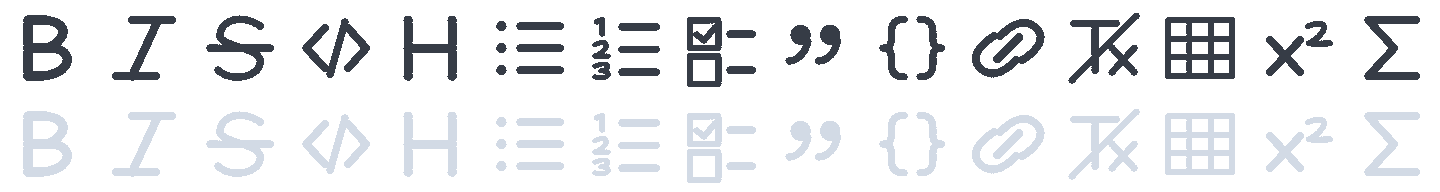
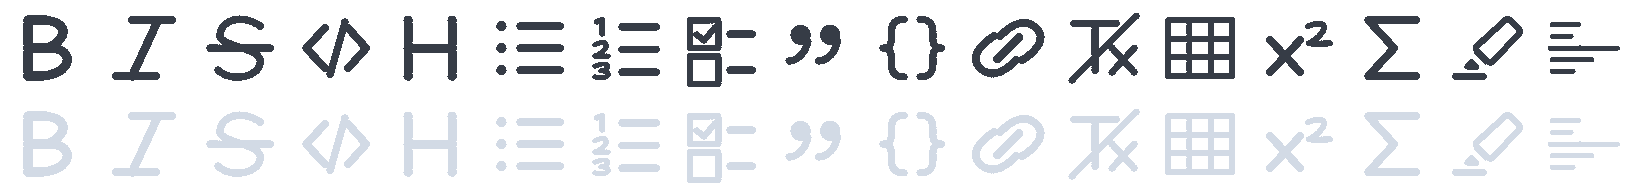
feat: 补齐高亮与分割线快速操作图标
- 图标资产：保存 AI 单图原件和裁切源图，生成高亮、分割线的明暗 PNG/SVG，并更新总览和说明。
- 生成流程：从同一源图按格取 alpha，再着主题色和交由 VTracer 描摹，延续现有校验规则。
- 项目技能：新增 ai-icon-sheet-to-svg，要求非 Codex 会话通过 handoff 移交，并同步项目文件树。

为后续高亮与分割线功能提供同风格、可追溯且可重建的快速操作图标。

Changed region(s): [[0.0, 0.0625, 1.0, 0.4688], [0.0, 0.5625, 1.0, 0.9688]]

diff --git a/scripts/quick-action-icons.py b/scripts/quick-action-icons.py
@@ -1,4 +1,4 @@
-"""Build the 15 light/dark quick-action icons from one raster contact sheet.
+"""Build the 17 light/dark quick-action icons from one raster contact sheet.
 
 Run: python scripts/quick-action-icons.py
 Requires Pillow and the VTracer CLI (`vtracer` on PATH). SVG paths are traced
@@ -17,10 +17,13 @@ from PIL import Image, ImageDraw
 
 ROOT = Path(__file__).resolve().parent.parent
 ASSETS = ROOT / "media" / "quick-actions"
+AI_ICON_SOURCE = ASSETS / "highlight-horizontal-rule-source.png"
+AI_ICON_KEYS = ("highlight", "horizontalRule")
 KEYS = (
     "bold", "italic", "strikethrough", "inlineCode", "heading",
     "bulletList", "orderedList", "taskList", "quote", "codeBlock",
     "link", "clearInline", "table", "inlineMath", "blockMath",
+    "highlight", "horizontalRule",
 )
 COLORS = {"light": (54, 60, 70), "dark": (210, 218, 229)}
 CELL = 96
@@ -77,6 +80,15 @@ class Pen:
 
 
 def draw_icon(key: str, rgb: tuple[int, int, int]) -> Image.Image:
+    if key in AI_ICON_KEYS:
+        with Image.open(AI_ICON_SOURCE) as sheet:
+            if sheet.size != (CELL * len(AI_ICON_KEYS), CELL) or sheet.mode != "RGBA":
+                raise ValueError(f"Wrong AI icon source geometry or mode: {AI_ICON_SOURCE}")
+            index = AI_ICON_KEYS.index(key)
+            alpha = sheet.crop((index * CELL, 0, (index + 1) * CELL, CELL)).getchannel("A")
+        result = Image.new("RGBA", (CELL, CELL), rgb + (0,))
+        result.putalpha(alpha)
+        return result
     p = Pen()
     if key == "bold":
         p.line([(7, 5), (7, 19)], 2.35)

diff --git a/.agents/skills/ai-icon-sheet-to-svg/SKILL.md b/.agents/skills/ai-icon-sheet-to-svg/SKILL.md
@@ -1,0 +1,29 @@
+---
+name: ai-icon-sheet-to-svg
+description: 在 Vsidian 项目中，按用户要求用 AI 一次生成多枚同风格快速操作图标，再从单张图裁切、规范成明暗 PNG 并用 VTracer 提取 SVG。仅 Codex（ChatGPT）执行；其他环境先移交。
+---
+
+# AI 单图生成快速操作图标
+
+## 执行资格
+
+**这套流程必须交给 Codex（ChatGPT）会话执行。**开始前先核对当前运行环境。若不是 Codex（ChatGPT），立即调用 `$matt-skills-curated:handoff`，将需求、项目与目标工作树、现有图标参考、已定图标 key、验收约束及下一步命令写入系统临时目录的交接文件，然后停止生图和资产改动。本机该技能的已知位置是 `C:/Users/64487/.codex/plugins/cache/openai-curated-remote/matt-skills-curated/1.1.0/skills/handoff/SKILL.md`；路径失效时按技能名查找。若无法调用，说明移交未完成，不以其他模型或手工绘图代替。
+
+在 Codex（ChatGPT）中，先读取 `imagegen` 技能并使用内置生图工具。此项目技能只用于用户要求 **AI 单图生成、裁切、SVG 化** 的图标任务；其他图标修改依现有可编辑源文件和用户要求处理。
+
+## 项目入口
+
+- 以 `scripts/quick-action-icons.py` 的 `KEYS`、`COLORS`、`validate` 和 `build` 为产物契约；以 `media/quick-actions/README.md`、`contact-sheet.png` 及现有明暗图标为风格参照。
+- 先确认目标工作树和已有改动。主工作树留给用户；在独立工作树制作。若用户指定了特性工作树，交付阶段主动同步到该工作树，并核对其状态，不让接手者手动搜集文件。
+- 概念、key、主题和输出格式未明确时先从规格或交接材料确认；不要用生成图猜操作语义。
+
+## 制作与集成
+
+1. **合并生图**：把现有代表性图标排成参考板，为全部新增图标在同一张图中留独立格。一次调用内置生图工具生成整张图；需要修正时编辑同一张图，最终只选一张原图作为裁切来源。提示词约束单色、极简线稿、现有笔画粗细与圆角、18px 可读性，并排除文字、渐变、阴影与装饰。保留最终原图供追溯。
+2. **裁切源图**：只从最终原图的目标格取图。去除参考板边框、背景噪点与杂色；保持长宽比，居中放入 96×96 安全区。将新增图标按 key 顺序拼成一张 RGBA 源图，每格 96×96，透明背景、单色墨水、二值 alpha。记录格位顺序与必要的裁切说明；不把原始生成图直接交给 VTracer。
+3. **接入生成器**：让 `draw_icon` 从单张源图按格裁切 alpha，再分别着 `COLORS` 中的明暗主题色。更新 `KEYS`；运行 `python scripts/quick-action-icons.py`，由既有流程裁切 PNG、调用开源 VTracer 提取真实 SVG path，并执行 `validate`。不要手写最终 SVG 或内嵌栅格图。新增文件和源图放在 `media/quick-actions/`，并更新该目录的 README。
+4. **视觉与文件校验**：把新图标与既有图标并列，分别在浅色、深色背景上查看 96px 和实际工具栏 18px 效果。核对语义、线重、留白与辨识度；有问题先修正生成图或裁切源图，再重建。确认既有图标文件未意外改变、总览尺寸与键数正确、PNG 色值/透明度/安全区通过、SVG 有非空 path 且无位图嵌入。维护项目 file-tree 数据源并报告任何既有校验告警。
+
+## 交付
+
+给出最终原图、单张裁切源图、总览和新增 PNG/SVG 的位置，以及生图提示词、所用工具、验证结果和未核实的视觉问题。资产应落在指定工作树；远端推送仍遵循项目授权边界。

diff --git a/media/quick-actions/README.md b/media/quick-actions/README.md
@@ -1,6 +1,8 @@
 # 快速操作图标
 
-`contact-sheet.png` 是唯一栅格总览：15 列按下表顺序排列，首行为浅色主题，次行为深色主题。每格 96×96 像素，透明背景。`light/` 和 `dark/` 内的 PNG 从总览逐格原样裁切；同名 SVG 再由 VTracer 对该 PNG 描摹生成，内含真实 `<path>`，不嵌入位图。
+`contact-sheet.png` 是栅格总览：17 列按下表顺序排列，首行为浅色主题，次行为深色主题。每格 96×96 像素，透明背景。`light/` 和 `dark/` 内的 PNG 从总览逐格原样裁切；同名 SVG 再由 VTracer 对该 PNG 描摹生成，内含真实 `<path>`，不嵌入位图。
+
+`highlight-horizontal-rule-ai-board.png` 保留了参考既有图标生成的单张原图。`highlight-horizontal-rule-source.png` 是从原图底部两格裁切、二值化后的透明单色源图（192×96）：左格为高亮笔，右格为分割线。重建脚本按格裁切源图的 alpha，分别着浅色或深色主题色，再纳入总览及 VTracer 描摹流程；既有 15 枚仍由脚本绘制。
 
 | 列 | 图标 key | 列 | 图标 key | 列 | 图标 key |
 | --- | --- | --- | --- | --- | --- |
@@ -9,6 +11,7 @@
 | 3 | `strikethrough` | 8 | `taskList` | 13 | `table` |
 | 4 | `inlineCode` | 9 | `quote` | 14 | `inlineMath` |
 | 5 | `heading` | 10 | `codeBlock` | 15 | `blockMath` |
+| 16 | `highlight` | 17 | `horizontalRule` | | |
 
 重建命令：
 

diff --git a/AGENTS.md b/AGENTS.md
@@ -51,7 +51,8 @@ VSCode 扩展：在 VSCode 中提供类 Obsidian 的 Markdown 编辑体验。
 vsidian/
 ├── .agents/               # agent 技能与本地配置
 │   └── skills/ # 已部署 agent 技能
-│       └── file-tree/ # file-tree 技能部署实例
+│       ├── ai-icon-sheet-to-svg/ # AI单图图标转SVG技能
+│       └── file-tree/            # file-tree 技能部署实例
 ├── .github/               # GitHub 平台配置
 │   └── workflows/ # Actions 工作流目录
 │       ├── ci.yml      # GitHub CI 工作流
